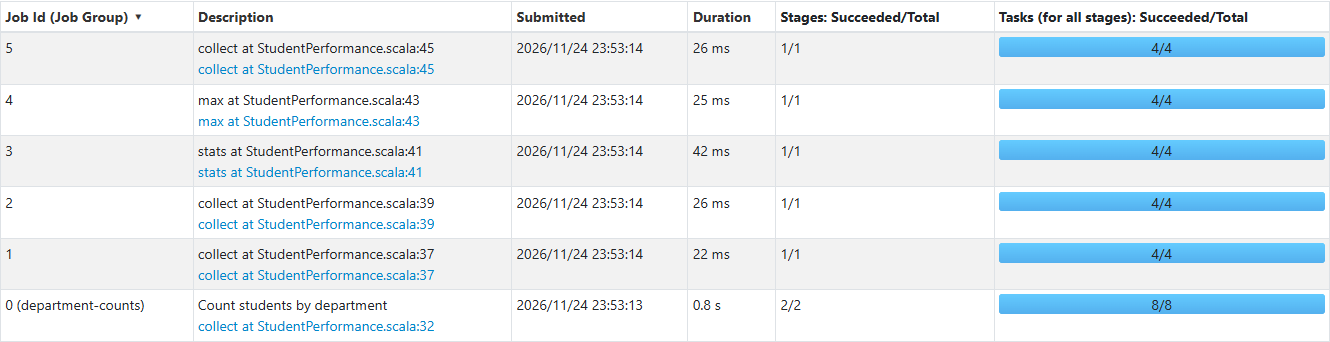
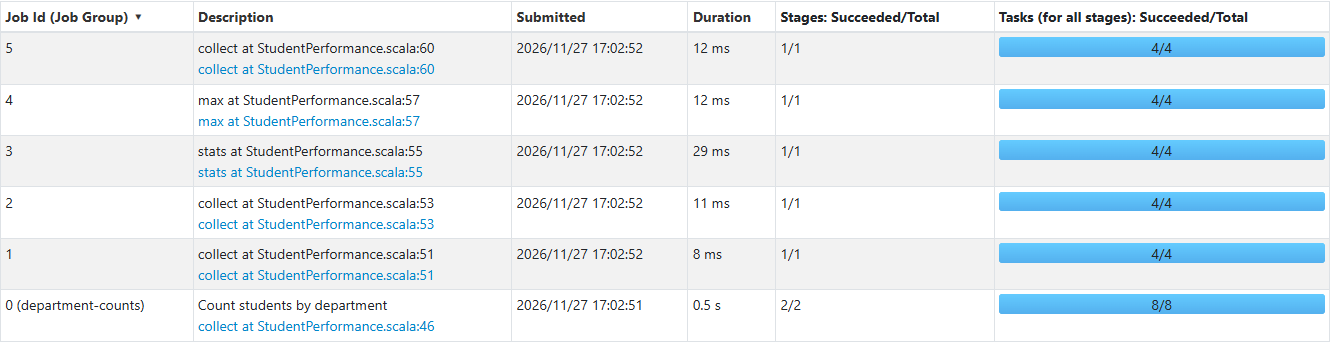
Explain Spark task distribution in Assignment 1

diff --git a/assignment-1/README.md b/assignment-1/README.md
@@ -12,6 +12,8 @@ The [recorded output](evidence/output.txt) displays all records and the seven ma
 
 `map`, `filter`, and `reduceByKey` build new RDDs. Before calling `collect` on the department aggregation, the job group has zero jobs. After the action it has one. The other actions, including `stats` and `max`, likewise trigger execution and return results to the driver.
 
-The [Spark DAG](evidence/spark-dag.png) and the printed `toDebugString` show the parallelized collection, the mapping into key-value pairs, and the shuffle for `reduceByKey`. The driver schedules stages and assigns tasks for each partition. Tasks apply narrow operations within a partition, then the shuffle sends partial counts to the partitions responsible for each key. In this local run the four partitions have three records each and run on the driver's Spark threads. In cluster mode executors on worker nodes run those same partition tasks and fetch shuffle data over the network.
+The Scala program explains task distribution alongside the department aggregation. When `collect` triggers the job, Spark runs four tasks to map and partially combine counts, then shuffles those counts by department. Four more tasks merge the partial counts in the output partitions. The driver receives the final counts. The [Spark DAG](evidence/spark-dag.png) shows this stage boundary.
+
+A separate partition inspection job reports the executor ID and record count for each input partition. In the recorded `local[4]` run, all four partitions processed three records on executor `driver`, which runs tasks on local threads. In cluster mode, the cluster manager allocates executors on worker nodes. The driver schedules tasks on those executors, and the executors fetch shuffle blocks needed by their partitions. [Apache Spark cluster overview](https://spark.apache.org/docs/3.5.8/cluster-overview.html)
 
 See the [completed jobs](evidence/spark-jobs.png) for the actions run during the lab.
